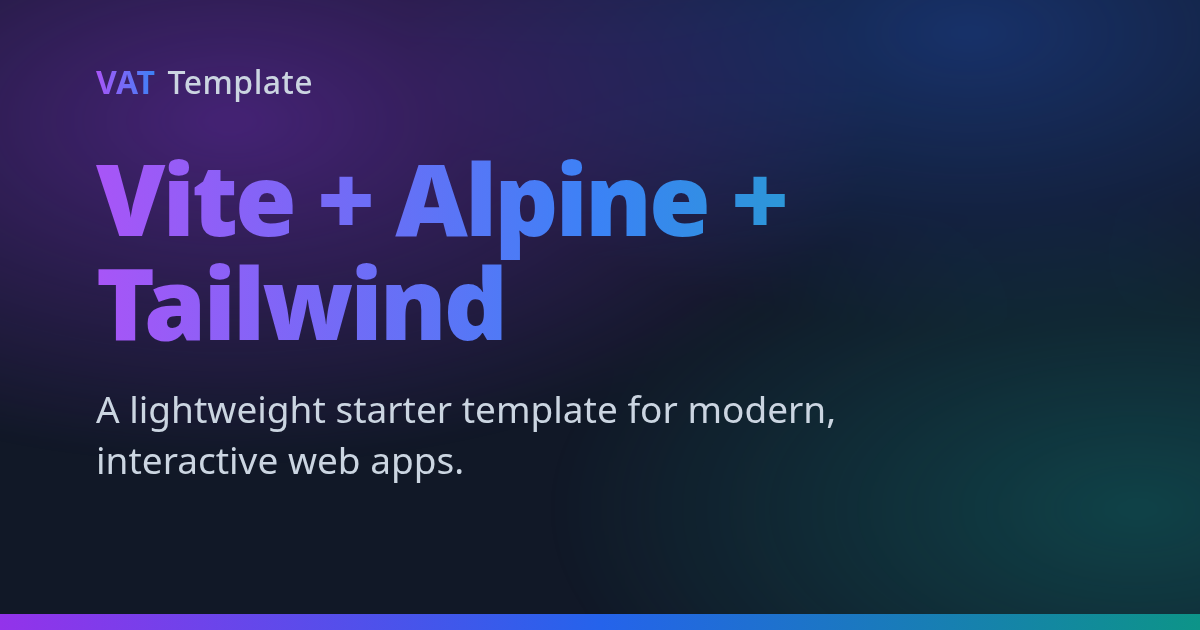
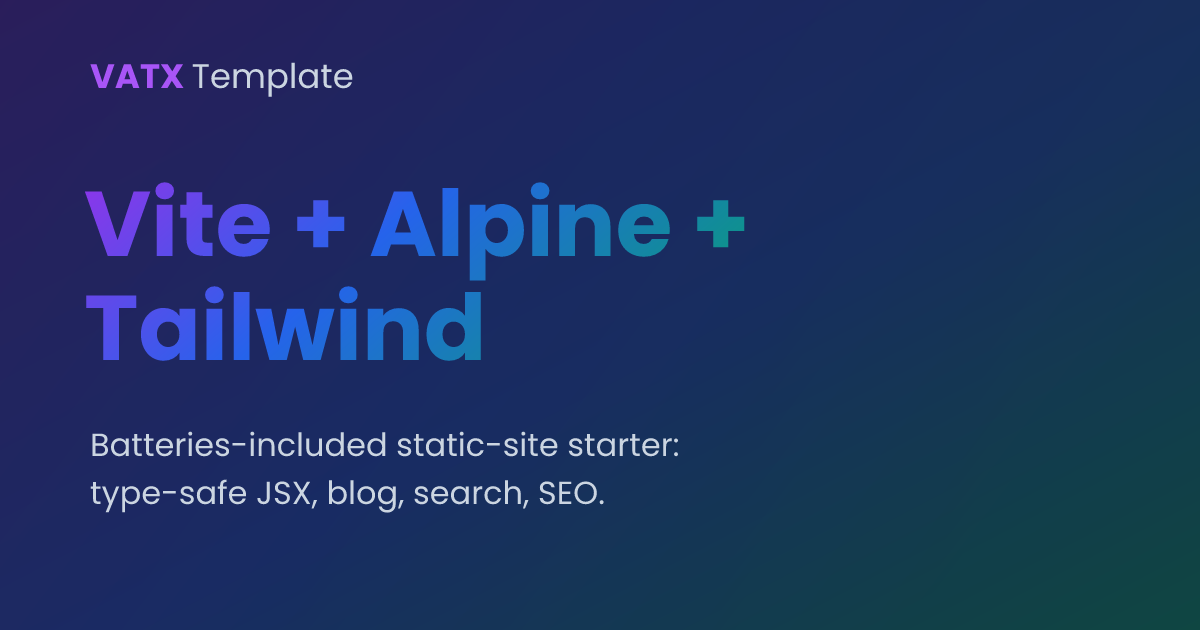
docs: regenerate OG card and reframe VATX as batteries-included
- public/og.png: new social card (VATX wordmark + SSG tagline)
- hero + about: drop "lightweight" framing (now the VAT sibling's identity)
- README: add reciprocal link to the lean vite-alpine-tailwind SPA sibling

diff --git a/src/components/hero.tsx b/src/components/hero.tsx
@@ -49,9 +49,9 @@ export function Hero({ base }: { base: string }): JSX.Element {
                 </h1>
 
                 <p class="text-xl opacity-80 mb-8 max-w-2xl mx-auto">
-                    A lightweight and powerful starter template for building
-                    modern, interactive web applications with speed and
-                    simplicity.
+                    A batteries-included static-site starter: type-safe JSX
+                    prerendered to HTML, with a Markdown blog, full-text search,
+                    and SEO baked in — shipping almost no client JS.
                 </p>
 
                 <div class="flex flex-wrap justify-center gap-4">

diff --git a/src/pages/about.tsx b/src/pages/about.tsx
@@ -24,9 +24,9 @@ export function Page({
                         About this template
                     </h1>
                     <p class="opacity-80 mb-6">
-                        A lightweight starter that authors its whole UI in JSX
-                        and renders it to static HTML at build time, then lets
-                        Alpine.js hydrate the markup. This page is a second
+                        A batteries-included starter that authors its whole UI
+                        in JSX and renders it to static HTML at build time, then
+                        lets Alpine.js hydrate the markup. This page is a second
                         prerendered route — navigation uses plain links plus the
                         native View Transitions API.
                     </p>

diff --git a/README.md b/README.md
@@ -15,6 +15,11 @@ prerenders it to **static HTML at build time**, and hydrates with **Alpine.js**
 full-text search 🔍, SEO + social cards 🖼️, dark mode 🌙) yet ships almost no
 client JS and deploys free to **GitHub Pages**. 🚀
 
+> Want the **lean, pure client-side** sibling — native **Web Components** +
+> **pinecone-router** SPA, no prerender? That's
+> **[vite-alpine-tailwind](https://github.com/vzsoares/vite-alpine-tailwind)**.
+> This repo is the batteries-included, prerendered counterpart.
+
 ## ✨ Features
 
 **Stack**